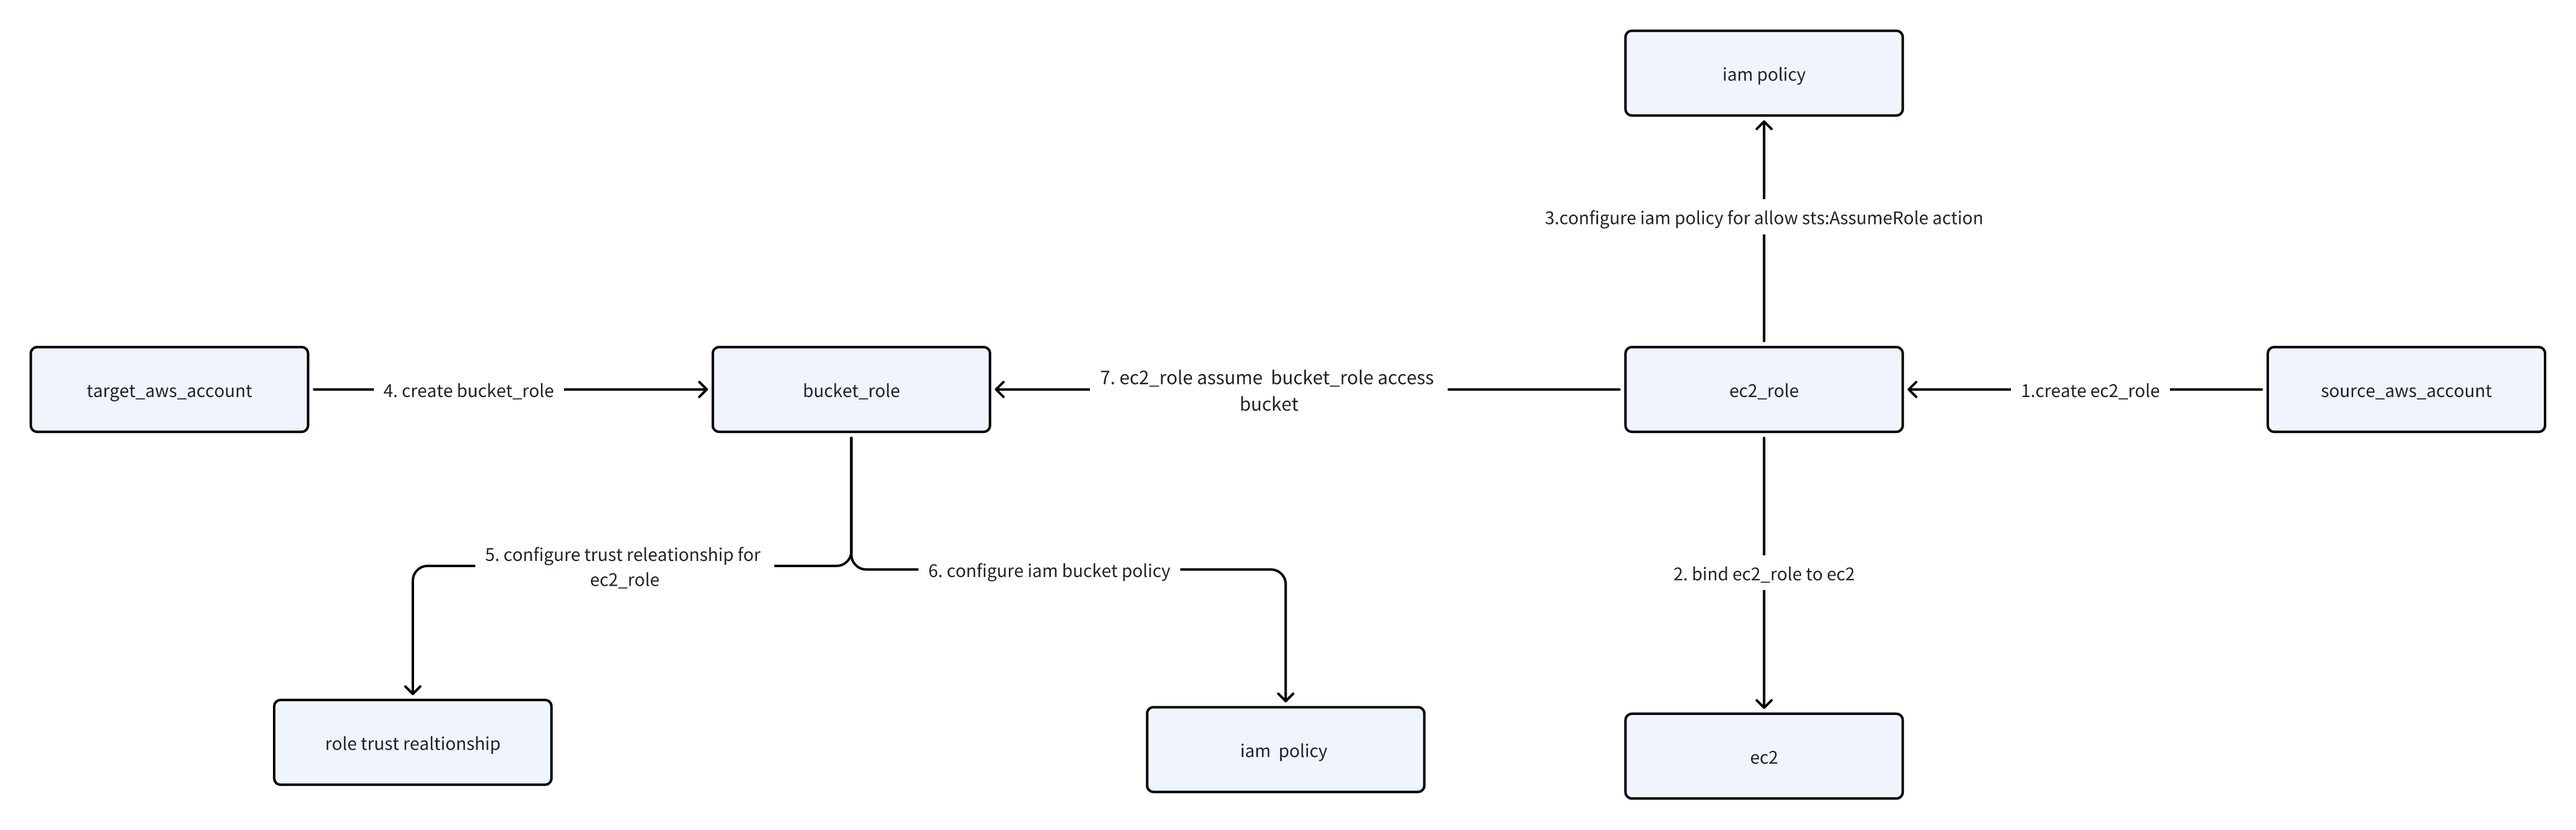
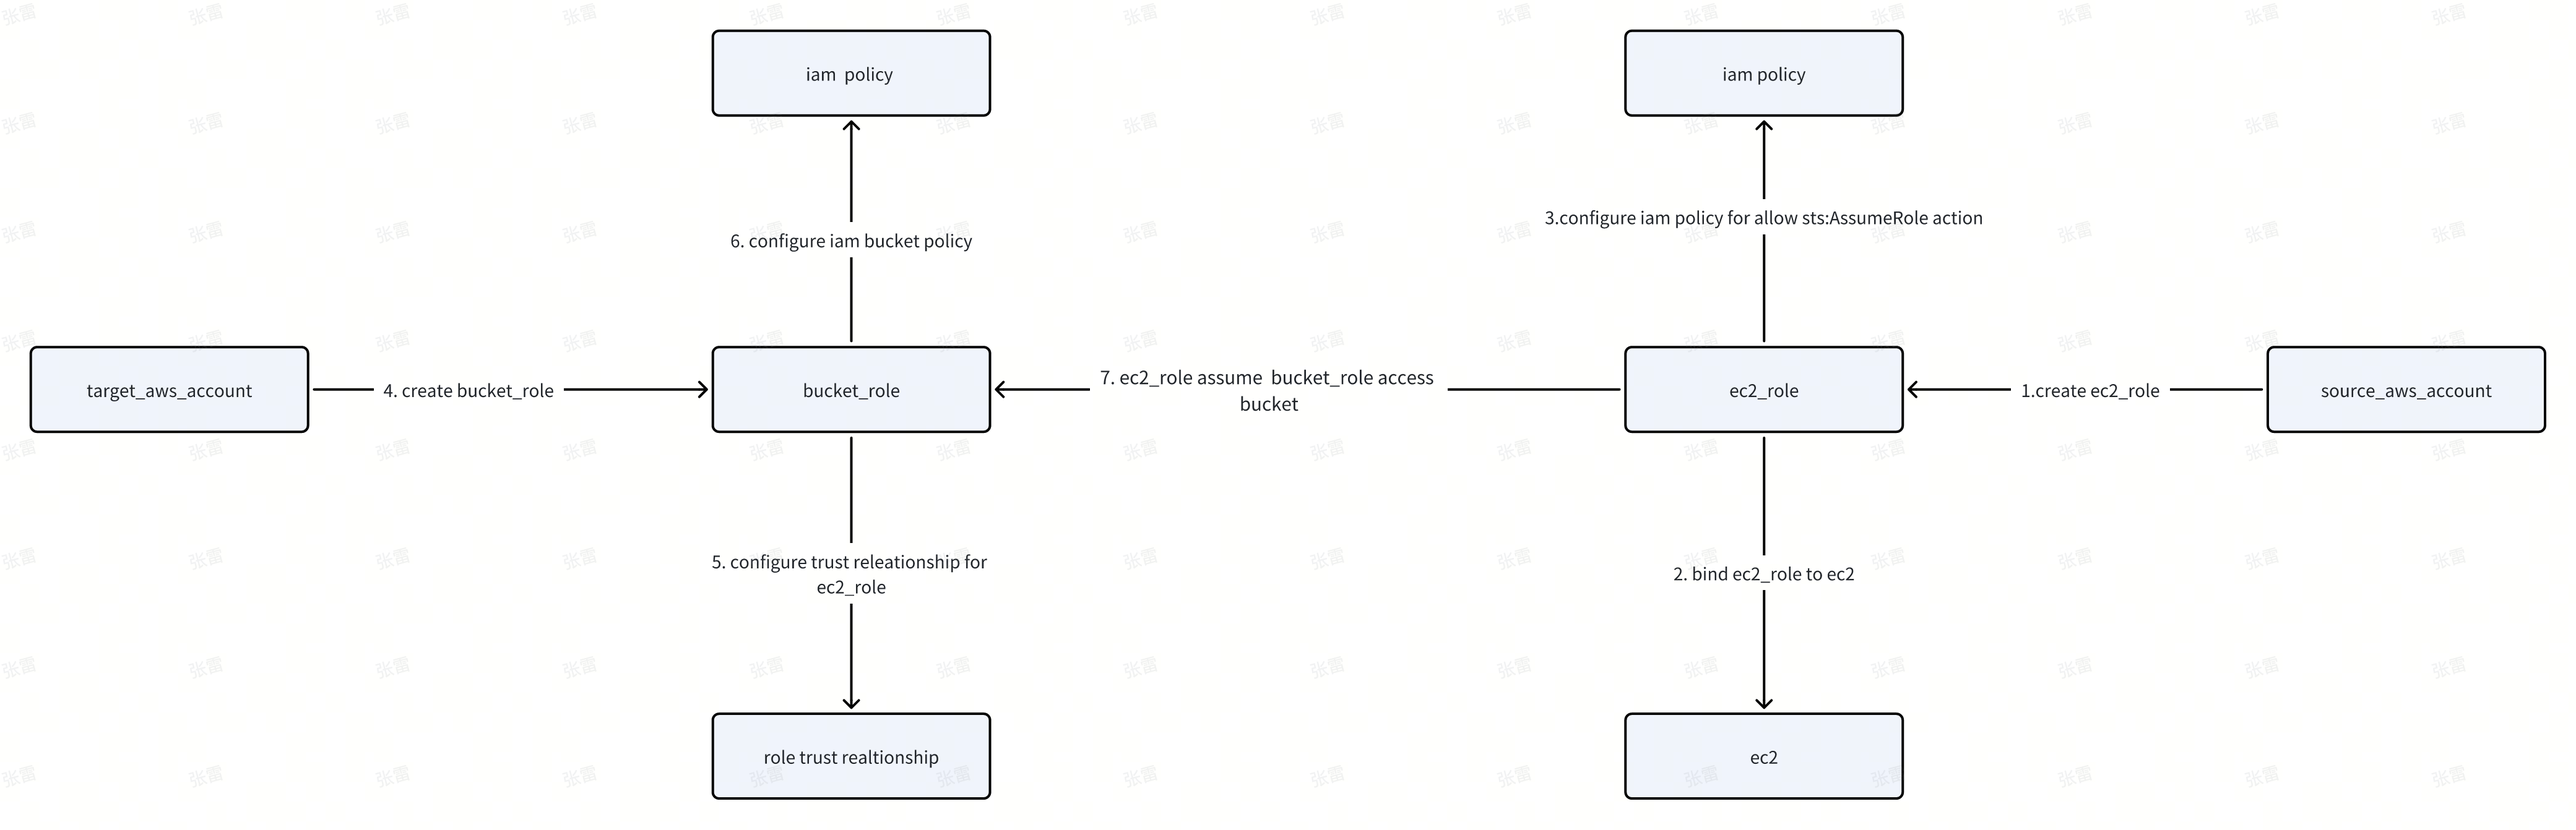
[chore](iam role) Optimize the document for aws iam role
* replace `your-target-role-arn` with `your-bucket-role-arn`
* update `assumed_role_flow` image

diff --git a/docs/admin-manual/auth/integrations/aws-authentication-and-authorization.md b/docs/admin-manual/auth/integrations/aws-authentication-and-authorization.md
@@ -379,7 +379,7 @@ Use these parameters in doris SQL statements as shown below:
 
 Common important key parameters:
 ```sql
-"s3.role_arn" = "<your-target-role-arn>",
+"s3.role_arn" = "<your-bucket-role-arn>",
 "s3.external_id" = "<your-external-id>"      -- option parameter
 ```
 
@@ -398,7 +398,7 @@ Common important key parameters:
       "provider" = "S3",
       "s3.endpoint" = "s3.us-east-1.amazonaws.com",
       "s3.region" = "us-east-1",
-      "s3.role_arn" = "<your-target-role-arn>",
+      "s3.role_arn" = "<your-bucket-role-arn>",
       "s3.external_id" = "<your-external-id>"      -- option parameter
   )
   PROPERTIES
@@ -414,7 +414,7 @@ Common important key parameters:
       "format" = "parquet",
       "s3.endpoint" = "s3.us-east-1.amazonaws.com",
       "s3.region" = "us-east-1",
-      "s3.role_arn" = "<your-target-role-arn>",
+      "s3.role_arn" = "<your-bucket-role-arn>",
       "s3.external_id" = "<your-external-id>"      -- option parameter
   )
 ```
@@ -427,7 +427,7 @@ Common important key parameters:
       "warehouse" = "s3://your_bucket/dir/key",
       "s3.endpoint" = "s3.us-east-1.amazonaws.com",
       "s3.region" = "us-east-1",
-      "s3.role_arn" = "<your-target-role-arn>",
+      "s3.role_arn" = "<your-bucket-role-arn>",
       "s3.external_id" = "<your-external-id>"      -- option parameter
   );
 ```
@@ -440,7 +440,7 @@ PROPERTIES (
     "s3.endpoint" = "s3.us-east-1.amazonaws.com",
     "s3.region" = "us-east-1",
     "s3.bucket" = "<your-bucket>",
-    "s3.role_arn" = "<your-target-role-arn>",
+    "s3.role_arn" = "<your-bucket-role-arn>",
     "s3.external_id" = "<your-external-id>",            -- option parameter
     "s3.root.path" = "s3_demo_vault_prefix",
     "provider" = "S3",
@@ -457,7 +457,7 @@ PROPERTIES (
 ) WITH S3 (
     "s3.endpoint" = "s3.us-east-1.amazonaws.com",
     "s3.region" = "us-east-1",
-    "s3.role_arn" = "<your-target-role-arn>",
+    "s3.role_arn" = "<your-bucket-role-arn>",
     "s3.external_id" = "<your-external-id>"
 )
 ```
@@ -471,7 +471,7 @@ PROPERTIES
 (
     "s3.endpoint" = "s3.us-east-1.amazonaws.com",
     "s3.region" = "us-east-1",
-    "s3.role_arn" = "<your-target-role-arn>",
+    "s3.role_arn" = "<your-bucket-role-arn>",
     "s3.external_id" = "<your-external-id>"
 );
 ```
@@ -484,7 +484,7 @@ PROPERTIES
     "s3.endpoint" = "s3.us-east-1.amazonaws.com",
     "s3.region" = "us-east-1",
     "s3.bucket" = "<your-bucket>",
-    "s3.role_arn" = "<your-target-role-arn>",
+    "s3.role_arn" = "<your-bucket-role-arn>",
     "s3.external_id" = "<your-external-id>"
 );
 ```

diff --git a/versioned_docs/version-3.0/admin-manual/auth/integrations/aws-authentication-and-authorization.md b/versioned_docs/version-3.0/admin-manual/auth/integrations/aws-authentication-and-authorization.md
@@ -379,7 +379,7 @@ Use these parameters in doris SQL statements as shown below:
 
 Common important key parameters:
 ```sql
-"s3.role_arn" = "<your-target-role-arn>",
+"s3.role_arn" = "<your-bucket-role-arn>",
 "s3.external_id" = "<your-external-id>"      -- option parameter
 ```
 
@@ -398,7 +398,7 @@ Common important key parameters:
       "provider" = "S3",
       "s3.endpoint" = "s3.us-east-1.amazonaws.com",
       "s3.region" = "us-east-1",
-      "s3.role_arn" = "<your-target-role-arn>",
+      "s3.role_arn" = "<your-bucket-role-arn>",
       "s3.external_id" = "<your-external-id>"      -- option parameter
   )
   PROPERTIES
@@ -414,7 +414,7 @@ Common important key parameters:
       "format" = "parquet",
       "s3.endpoint" = "s3.us-east-1.amazonaws.com",
       "s3.region" = "us-east-1",
-      "s3.role_arn" = "<your-target-role-arn>",
+      "s3.role_arn" = "<your-bucket-role-arn>",
       "s3.external_id" = "<your-external-id>"      -- option parameter
   )
 ```
@@ -427,7 +427,7 @@ Common important key parameters:
       "warehouse" = "s3://your_bucket/dir/key",
       "s3.endpoint" = "s3.us-east-1.amazonaws.com",
       "s3.region" = "us-east-1",
-      "s3.role_arn" = "<your-target-role-arn>",
+      "s3.role_arn" = "<your-bucket-role-arn>",
       "s3.external_id" = "<your-external-id>"      -- option parameter
   );
 ```
@@ -440,7 +440,7 @@ PROPERTIES (
     "s3.endpoint" = "s3.us-east-1.amazonaws.com",
     "s3.region" = "us-east-1",
     "s3.bucket" = "<your-bucket>",
-    "s3.role_arn" = "<your-target-role-arn>",
+    "s3.role_arn" = "<your-bucket-role-arn>",
     "s3.external_id" = "<your-external-id>",            -- option parameter
     "s3.root.path" = "s3_demo_vault_prefix",
     "provider" = "S3",
@@ -457,7 +457,7 @@ PROPERTIES (
 ) WITH S3 (
     "s3.endpoint" = "s3.us-east-1.amazonaws.com",
     "s3.region" = "us-east-1",
-    "s3.role_arn" = "<your-target-role-arn>",
+    "s3.role_arn" = "<your-bucket-role-arn>",
     "s3.external_id" = "<your-external-id>"
 )
 ```
@@ -471,7 +471,7 @@ PROPERTIES
 (
     "s3.endpoint" = "s3.us-east-1.amazonaws.com",
     "s3.region" = "us-east-1",
-    "s3.role_arn" = "<your-target-role-arn>",
+    "s3.role_arn" = "<your-bucket-role-arn>",
     "s3.external_id" = "<your-external-id>"
 );
 ```
@@ -484,7 +484,7 @@ PROPERTIES
     "s3.endpoint" = "s3.us-east-1.amazonaws.com",
     "s3.region" = "us-east-1",
     "s3.bucket" = "<your-bucket>",
-    "s3.role_arn" = "<your-target-role-arn>",
+    "s3.role_arn" = "<your-bucket-role-arn>",
     "s3.external_id" = "<your-external-id>"
 );
 ```
